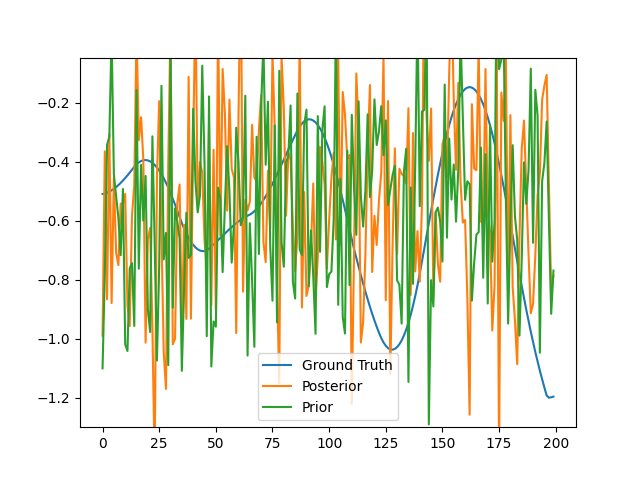
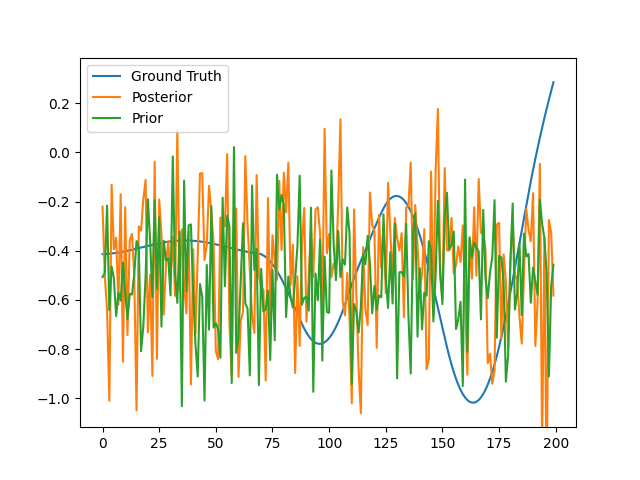
Updated Files

diff --git a/generativeNN/train.py b/generativeNN/train.py
@@ -31,7 +31,7 @@ optimizer = optim.Adam(list(transition_model.parameters()) + list(posterior_mode
 print("Collecting data...")
 env = gym.make('MountainCar-v0')
 observation, info = env.reset()
-eps = 640
+eps = 3200#640
 data = []
 last_action = 1
 for i in range(eps):
@@ -67,11 +67,11 @@ for j in range(epochs):
     #Shuffle data using numpy
     np.random.shuffle(data)
     optimizer.zero_grad()
+    loss = torch.Tensor(1, 1).fill_(0.0)
 
     for i in range(len(data)):
 
         state = torch.zeros(1, state_space)
-        loss = torch.Tensor(1, 1).fill_(0.0)
 
         #Pairs are (at-1, ot)
         for action, obs in data[i]:
@@ -90,7 +90,7 @@ for j in range(epochs):
             obs_sample = sample(likelihood_output[:, 0], likelihood_output[:, 1])
 
             #Calculate free energy
-            loss += freeEnergy(transition_output[:, :4], transition_output[:, 4:], posterior_output[:, :4], posterior_output[:, 4:], likelihood_output[:, 0], likelihood_output[:, 1], obs)
+            loss += freeEnergy(transition_output[:, :4].T, transition_output[:, 4:][0], posterior_output[:, :4].T, posterior_output[:, 4:][0], likelihood_output[:, 0], likelihood_output[:, 1], obs)
 
             #Update state
             state = state_sample
@@ -100,8 +100,8 @@ for j in range(epochs):
             loss.backward()
             optimizer.step()
             print(f"EPOCH {j+1}/{epochs} | {i // batch_size}/{len(data) // batch_size} | {loss.item()}")
-            loss = torch.Tensor(1, 1).fill_(0.0)
             optimizer.zero_grad()
+            loss = torch.Tensor(1, 1).fill_(0.0)
 
 print("Evaluation...")
 

diff --git a/generativeNN/models.py b/generativeNN/models.py
@@ -78,9 +78,22 @@ def kl_divergence_gaussian(p_mean, p_logstd, q_mean, q_logstd):
     p_std = torch.exp(p_logstd)
     q_std = torch.exp(q_logstd)
 
-    print(p_std, q_std)
+    p_diag = torch.diag(p_std)
+    q_diag = torch.diag(q_std)
 
-    return 0
+    N = p_mean.shape[0]
+
+    p_diag_inv = torch.inverse(p_diag)
+    q_diag_inv = torch.inverse(q_diag)
+
+    diff = q_mean - p_mean
+
+
+    tf = torch.trace(q_diag_inv @ p_diag)
+    det = torch.log(torch.det(q_diag)/torch.det(p_diag))
+    quad = diff.T @ q_diag_inv @ diff
+
+    return 0.5 * (tf + det + quad - N)
 
 def log_likelihood(obs, mean, log_std):
     std = torch.exp(log_std)

diff --git a/generativeNN/test.py b/generativeNN/test.py
@@ -1,10 +1,12 @@
 from models import kl_divergence_gaussian
 import torch
 
-mean1 = torch.tensor([0.0, 1.0])
-log_std1 = torch.tensor([1.0, 1.0])
-mean2 = torch.tensor([0.0, 1.0])
-log_std2 = torch.tensor([1.0, 1.0])
+mean1 = torch.tensor([0.0, 1.0, 2.0, 3.0]).view(4, 1)
+log_std1 = torch.tensor([1.0, 1.0, 2.0, 2.0])
+mean2 = torch.tensor([0.0, 1.0, 2.0, 3.0]).view(4, 1)
+log_std2 = torch.tensor([1.0, 1.0, 2.0, 2.0])
+
+print(mean1.shape, log_std1.shape, mean2.shape, log_std2.shape)
 
 kl = kl_divergence_gaussian(mean1, log_std1, mean2, log_std2)
 print(kl)
